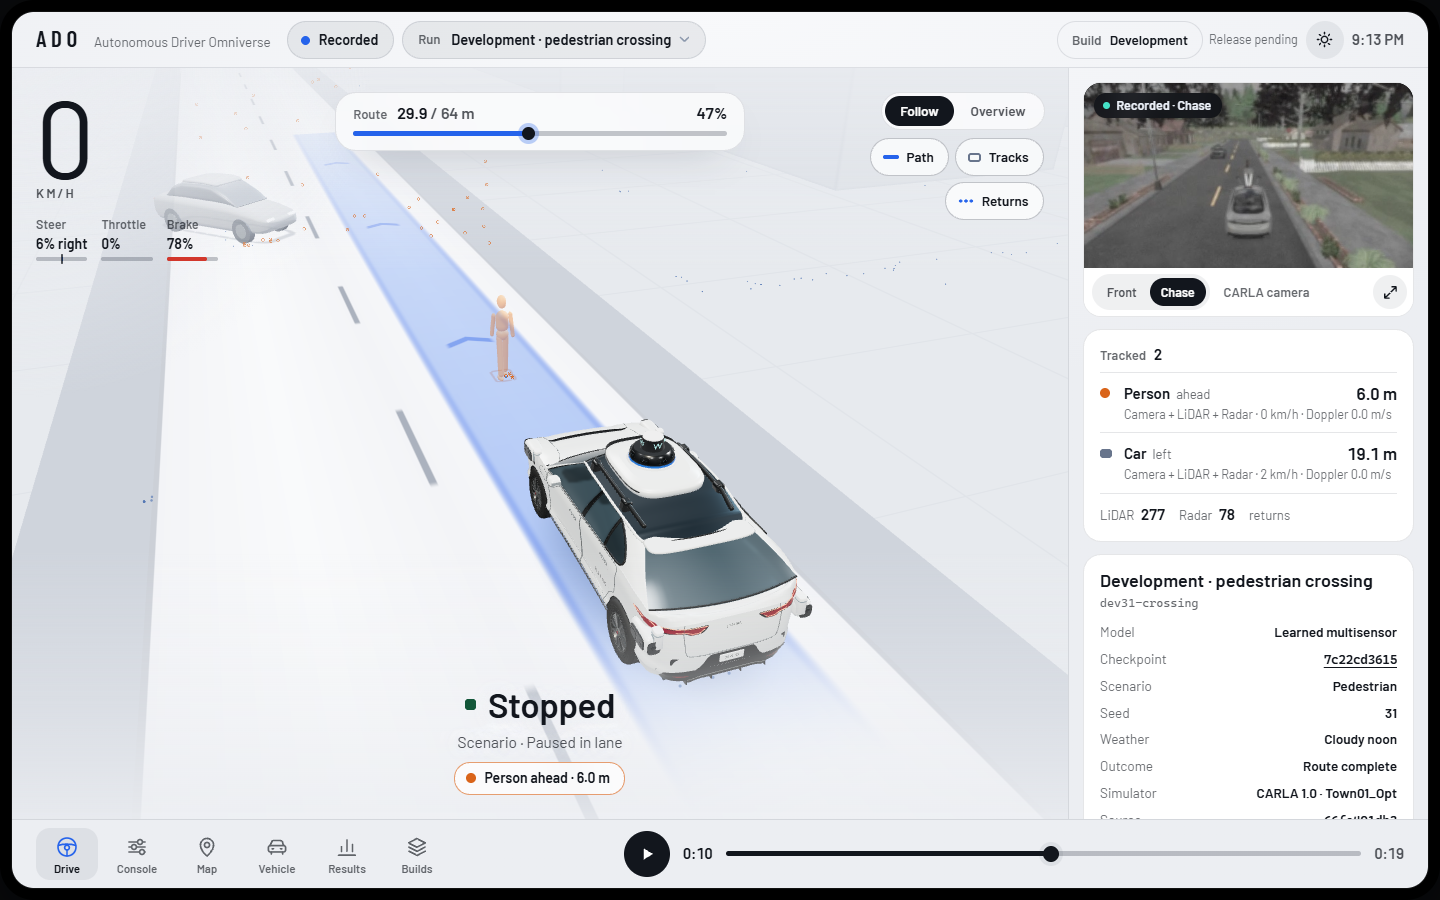
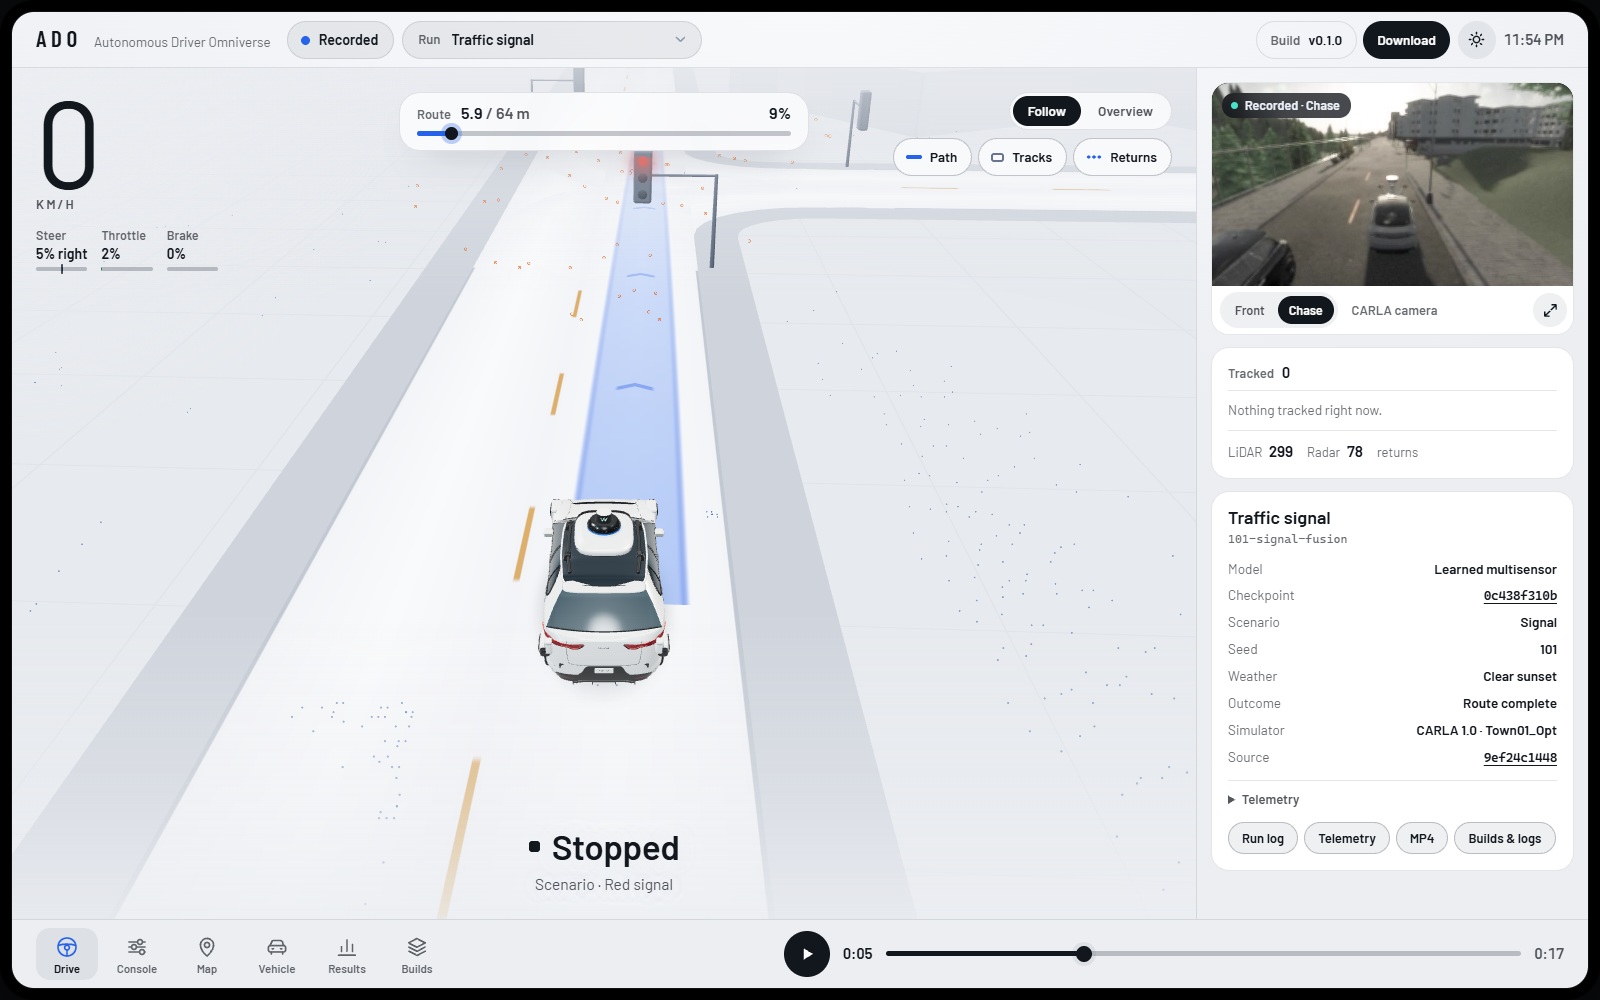
Extend the steady scene to the Town03 city drive and score it against its actors
Signals now take their direction from the road description itself and carry how far
each head reaches over its governed lanes, which Town03's far-side masts need. The
object memory ignores the vehicle's own lidar returns, drops a remembered object the
camera can see past, asks a third measurement of near-threshold detections and allows
for parking lanes. Scored on the city drive, which lists every physical actor nearby:
objects appear 18 times instead of 112, and 84% of what is drawn stands within 3 m of
a real actor against 66% of the tracker's list.

diff --git a/web/perception-scene.js b/web/perception-scene.js
@@ -371,7 +371,7 @@ function townFeatures(name) {
 // A traffic signal is drawn as a symbol, half again as large as life so its lamps read from the
 // follow camera. Its position and facing are the map's. A lamp is lit only from a recorded state.
 const LAMPS=['red','amber','green'];
-const SIGNAL={scale:1.5, post:3.3, reach:1.5};
+const SIGNAL={scale:1.5, post:3.3, tall:5.2, reach:1.5};
 function signalParts(look) {
   const lit=color=>new T.MeshBasicMaterial({color,toneMapped:false});
   const glow=color=>new T.ShaderMaterial({
@@ -386,21 +386,25 @@ function signalParts(look) {
     body:paint(look.signalBody,{roughness:.7,metalness:.2}), off:paint(look.signalOff,{roughness:.6}),
     lit:Object.fromEntries(LAMPS.map(name=>[name,lit(look[name])])),
     glow:Object.fromEntries(LAMPS.map(name=>[name,glow(look[name])])),
-    pole:new T.CylinderGeometry(.06,.08,SIGNAL.post,10), arm:new T.CylinderGeometry(.045,.045,SIGNAL.reach,8),
+    pole:new T.CylinderGeometry(.06,.08,1,10), arm:new T.CylinderGeometry(.045,.045,1,8),
     housing:new T.RoundedBoxGeometry(.3,1.2,.42,2,.07), lamp:new T.SphereGeometry(.13,16,10), halo:new T.PlaneGeometry(1,1)
   };
 }
 function buildSignal(parts, record, height) {
   const group=new T.Group();
-  // Local +X points at the traffic the signal governs, which approaches from that side.
+  // Local +X points at the traffic the signal governs, which approaches from that side, and
+  // local +Z to that traffic's left, where the lanes it governs lie.
   group.position.set(record.post[0],height,record.post[1]);
   group.rotation.y=-(record.governs_yaw+180)*rad;
-  add(group,parts.pole,parts.body,0,SIGNAL.post/2,0);
-  // An arm carries the head from the roadside post out over the lane it governs.
-  const arm=add(group,parts.arm,parts.body,0,SIGNAL.post-.05,-SIGNAL.reach/2);
-  arm.rotation.x=Math.PI/2;
+  const reach=finite(record.reach)?clamp(record.reach,-14,14):SIGNAL.reach;
+  // A long mast stands taller, so its head clears a bus.
+  const top=Math.abs(reach)>5?SIGNAL.tall:SIGNAL.post;
+  add(group,parts.pole,parts.body,0,top/2,0).scale.y=top;
+  // An arm carries the head from the roadside post out over the lanes it governs.
+  const arm=add(group,parts.arm,parts.body,0,top-.05,reach/2);
+  arm.rotation.x=Math.PI/2;arm.scale.y=Math.abs(reach);
   const head=new T.Group();
-  head.position.set(0,SIGNAL.post-.1,-SIGNAL.reach);head.scale.setScalar(SIGNAL.scale);
+  head.position.set(0,top-.1,reach);head.scale.setScalar(SIGNAL.scale);
   group.add(head);
   add(head,parts.housing,parts.body,0,0,0);
   const lamps=LAMPS.map((name,i)=>{
@@ -410,7 +414,10 @@ function buildSignal(parts, record, height) {
   });
   const halo=add(head,parts.halo,parts.glow.red,.2,0,0);
   halo.visible=false;halo.renderOrder=5;
-  return {id:record.id,x:record.post[0],z:record.post[1],yaw:record.governs_yaw,group,lamps,halo,state:null};
+  // Where the head hangs, in world coordinates: `reach` to the left of the governed traffic.
+  const yaw=record.governs_yaw*rad;
+  return {id:record.id,x:record.post[0]+reach*Math.sin(yaw),z:record.post[1]-reach*Math.cos(yaw),
+    yaw:record.governs_yaw,post:record.post,group,lamps,halo,state:null};
 }
 function showSignal(parts, signal, state) {
   if(signal.state===state)return;
@@ -620,34 +627,38 @@ export class PerceptionScene {
     this.redraw();
   }
   // Light each signal from the frame. A recording can list lamp states around the vehicle as
-  // observer_map.signals: [{x, y, state}]. Recordings made before that field say less: the signal
-  // scenario records the phase of the signal the vehicle waits at, and the trip scenario holds
-  // every signal on the route at green (crosswalk/world.py; the recorded cameras show both).
-  // A signal with no recorded state is drawn unlit.
+  // observer_map.signals: [{id, state}] or [{x, y, state}]. Recordings made before that field
+  // say less. The signal scenario, alone or as an event in a journey, records the phase of the
+  // signal the vehicle waits at, and the trip scenario holds every signal on the route at green
+  // (crosswalk/world.py and journey.py; the Town01 recordings' cameras show both). A signal with
+  // no recorded state is drawn unlit.
   lightSignals(frame,ctx) {
     if(!this.signals?.length)return;
     const states=new Map(), listed=frame.observer_map?.signals;
+    const phase=/^(?:signal: )?(red|green)(?: signal)?$/.exec(frame.phase||'');
     if(Array.isArray(listed)){
       for(const entry of listed){
-        if(!finite(entry?.x)||!finite(entry?.y))continue;
-        let nearest=null, distance=6;
-        for(const signal of this.signals){
-          const d=Math.hypot(signal.x-entry.x,signal.z-entry.y);
-          if(d<distance){distance=d;nearest=signal;}
+        let match=entry?.id==null?null:this.signals.find(signal=>String(signal.id)===String(entry.id));
+        if(!match&&finite(entry?.x)&&finite(entry?.y)){
+          let distance=6;
+          for(const signal of this.signals){
+            const d=Math.hypot(signal.post[0]-entry.x,signal.post[1]-entry.y);
+            if(d<distance){distance=d;match=signal;}
+          }
         }
-        if(nearest)states.set(nearest,lampState(entry.state));
+        if(match)states.set(match,lampState(entry.state));
       }
-    }else if(ctx.located&&(frame.scenario==='trip'||(frame.scenario==='signal'&&/^(red|green) signal$/.test(frame.phase)))){
-      // The signals ahead that govern traffic heading the vehicle's way, nearest first.
+    }else if(ctx.located&&(frame.scenario==='trip'||(phase&&(frame.scenario==='signal'||frame.scenario==='journey')))){
+      // The heads ahead that govern traffic heading the vehicle's way, nearest first.
       const c=Math.cos(ctx.degrees*rad), n=Math.sin(ctx.degrees*rad), ahead=[];
       for(const signal of this.signals){
         const dx=signal.x-ctx.x, dz=signal.z-ctx.z, fx=c*dx+n*dz, fy=-n*dx+c*dz;
         const along=Math.abs((((signal.yaw-ctx.degrees)%360)+540)%360-180)<35;
-        if(along&&fx>2&&fx<70&&Math.abs(fy)<8)ahead.push([fx,signal]);
+        if(along&&fx>2&&fx<70&&Math.abs(fy)<7)ahead.push([fx,signal]);
       }
       ahead.sort((a,b)=>a[0]-b[0]);
       if(frame.scenario==='trip')for(const [,signal] of ahead)states.set(signal,'green');
-      else if(ahead.length)states.set(ahead[0][1],frame.phase.startsWith('red')?'red':'green');
+      else if(ahead.length)states.set(ahead[0][1],phase[1]);
     }
     const cos=Math.cos(ctx.degrees*rad), sin=Math.sin(ctx.degrees*rad), follow=this.view==='follow';
     for(const signal of this.signals){

diff --git a/tests/test_map_features.py b/tests/test_map_features.py
@@ -1,4 +1,4 @@
-"""The committed town features are what the road description says, and fit the town export."""
+"""The committed town features are what each road description says, and fit the town exports."""
 import json
 import os
 from pathlib import Path
@@ -10,44 +10,69 @@ except ImportError:     # the simulator client is not installed
     map_features = None
 
 ROOT = Path(__file__).resolve().parents[1]
-TOWN01_MAP = Path(os.environ.get("CARLA_TOWN01_XODR", ".local/Town01_Opt-1.0.xodr"))
-COMMITTED = ROOT / "web/media/map-features/Town01_Opt.json"
+FEATURES = ROOT / "web/media/map-features"
+# Each town's road description, and a town export recorded in it.
+TOWNS = {
+    "Town01_Opt": (Path(os.environ.get("CARLA_TOWN01_XODR", ".local/Town01_Opt-1.0.xodr")), ROOT / "web/media/town.json"),
+    "Town03_Opt": (Path(os.environ.get("CARLA_TOWN03_XODR", ".local/Town03_Opt-1.0.xodr")),
+                   ROOT / "web/media/long-city-drive/town.json"),
+}
 
 
-@unittest.skipUnless(map_features and TOWN01_MAP.is_file(), "needs the CARLA client and the Town01 road description")
+def described(town):
+    xodr, export = TOWNS[town]
+    if map_features is None or not xodr.is_file():
+        raise unittest.SkipTest(f"needs the CARLA client and the {town} road description")
+    return map_features.features(town, xodr.read_text(encoding="utf-8")), json.loads(export.read_text(encoding="utf-8"))
+
+
 class MapFeatureTests(unittest.TestCase):
-    @classmethod
-    def setUpClass(cls):
-        cls.features = map_features.features("Town01_Opt", TOWN01_MAP.read_text(encoding="utf-8"))
-
-    def test_committed_file_is_what_the_road_description_gives(self):
-        self.assertEqual(json.loads(COMMITTED.read_text(encoding="utf-8")), json.loads(json.dumps(self.features)))
+    def test_committed_files_are_what_the_road_descriptions_give(self):
+        for town in TOWNS:
+            with self.subTest(town):
+                features, _ = described(town)
+                committed = json.loads((FEATURES / f"{town}.json").read_text(encoding="utf-8"))
+                self.assertEqual(committed, json.loads(json.dumps(features)))
 
     def test_every_exported_lane_is_described(self):
-        town = json.loads((ROOT / "web/media/town.json").read_text(encoding="utf-8"))
-        described = {(tuple(lane["a"]), tuple(lane["b"])) for lane in self.features["lanes"]}
-        missing = [lane for lane in town["roads"] if (tuple(lane[0][:2]), tuple(lane[-1][:2])) not in described]
-        self.assertEqual(missing, [])
-        self.assertEqual(len(town["roads"]), len(self.features["lanes"]))
+        for town in TOWNS:
+            with self.subTest(town):
+                features, export = described(town)
+                self.assertEqual(export["producer"]["map"], town)
+                lanes = {(tuple(lane["a"]), tuple(lane["b"])) for lane in features["lanes"]}
+                missing = [lane for lane in export["roads"] if (tuple(lane[0][:2]), tuple(lane[-1][:2])) not in lanes]
+                self.assertEqual(missing, [])
+                self.assertEqual(len(export["roads"]), len(features["lanes"]))
 
     def test_lane_direction_and_centre_line(self):
-        # The first road runs along y = 0. Traffic keeps to the right of the yellow centre line,
-        # and CARLA's y axis points to the right of its x axis.
-        west, east = self.features["lanes"][:2]
+        # Town01's first road runs along y = 0. Traffic keeps to the right of the yellow centre
+        # line, and CARLA's y axis points to the right of its x axis.
+        features, _ = described("Town01_Opt")
+        west, east = features["lanes"][:2]
         self.assertTrue(west["forward"] and west["a"][0] > west["b"][0] and west["a"][1] < 0)
         self.assertTrue(not east["forward"] and east["a"][1] > 0)
         yellow = {"line": "broken", "color": "yellow"}
         self.assertEqual((west["minus"], west["plus"]), (yellow, None))
         self.assertEqual((east["plus"], east["minus"]), (yellow, None))
 
-    def test_signals_stand_beside_the_traffic_they_govern(self):
-        signals = self.features["signals"]
+    def test_signals_face_the_traffic_they_govern(self):
+        features, _ = described("Town01_Opt")
+        signals = {signal["id"]: signal for signal in features["signals"]}
         self.assertEqual(len(signals), 36)
-        self.assertEqual(len({signal["id"] for signal in signals}), 36)
-        by_id = {signal["id"]: signal for signal in signals}
-        # Westbound traffic on the first road meets signal 362 on its own side of the road.
-        self.assertEqual(abs(by_id[362]["governs_yaw"]), 180.)
-        self.assertLess(by_id[362]["post"][1], -2.)
+        # Westbound traffic on the first road meets signal 362 on its own side of the road,
+        # with the governed lane's centre a little under 3 m to the left of the post.
+        self.assertEqual(abs(signals[362]["governs_yaw"]), 180.)
+        self.assertLess(signals[362]["post"][1], -2.)
+        self.assertTrue(all(2. < signal["reach"] < 3.2 for signal in signals.values()))
+
+        # Town03's posts stand across wide junctions from the lanes they govern. Signal 2024
+        # governs eastbound traffic from a mast that reaches 11 m over the road.
+        features, _ = described("Town03_Opt")
+        signals = {signal["id"]: signal for signal in features["signals"]}
+        self.assertEqual(len(signals), 38)
+        self.assertEqual(signals[2024]["governs_yaw"], 0.)
+        self.assertAlmostEqual(signals[2024]["reach"], 11.2, delta=.3)
+        self.assertTrue(all(signal["reach"] > 4. for signal in signals.values()))
 
 
 if __name__ == "__main__":

diff --git a/crosswalk/map_features.py b/crosswalk/map_features.py
@@ -2,8 +2,8 @@
 
 The town geometry exported by ``city_map`` holds lane centre lines and building bounds.
 This adds what the road description itself records about those lanes: which way each one
-is driven, how its two edges are painted, and where each traffic signal stands and which
-way the traffic it governs is heading. Lanes are keyed by their end points, so the file matches a town export
+is driven, how its two edges are painted, where each traffic signal's post stands, which
+way the traffic it governs is heading and how far the governed lanes are from the post. Lanes are keyed by their end points, so the file matches a town export
 however that export orders its lanes.
 """
 from collections import defaultdict
@@ -11,6 +11,7 @@ from pathlib import Path
 import argparse
 import hashlib
 import json
+import math
 
 import carla
 
@@ -53,19 +54,30 @@ def _lanes(road_map):
 
 
 def _signals(road_map):
-    signals = {}
+    """One entry per signal post. The road description lists a post once for every junction lane it governs."""
+    posts = defaultdict(list)
     for landmark in road_map.get_all_landmarks_of_type(SIGNAL):
-        if landmark.id in signals:
-            continue    # one entry per junction movement it governs; the post itself is the same
-        post = landmark.transform
-        lane = road_map.get_waypoint(post.location, project_to_road=True, lane_type=carla.LaneType.Driving)
-        # A post stands beside the lane it governs. That lane's direction is the direction of
-        # the traffic that obeys it, and its lamps face the other way.
-        beside = lane is not None and lane.transform.location.distance(post.location) < 8.
-        yaw = lane.transform.rotation.yaw if beside else post.rotation.yaw
-        signals[landmark.id] = {"id": int(landmark.id), "post": _xy(post.location),
-                                "governs_yaw": round((yaw + 180.) % 360. - 180., 1)}
-    return [signals[key] for key in sorted(signals, key=int)]
+        posts[int(landmark.id)].append(landmark)
+    signals = []
+    for key in sorted(posts):
+        post = posts[key][0].transform
+        # The landmark points the way the traffic it governs is heading. Its lamps face the other way.
+        yaw = math.radians(post.rotation.yaw)
+        entry = {"id": key, "post": _xy(post.location), "governs_yaw": round((post.rotation.yaw + 180.) % 360. - 180., 1)}
+        offsets = []
+        for landmark in posts[key]:
+            for first, last in landmark.get_lane_validities():
+                for lane_id in range(min(first, last), max(first, last) + 1):
+                    governed = road_map.get_waypoint_xodr(landmark.road_id, lane_id, landmark.s) if lane_id else None
+                    if governed is not None:
+                        delta = governed.transform.location - post.location
+                        # Metres from the post to that lane's centre, positive to the left of its traffic.
+                        offsets.append(delta.x * math.sin(yaw) - delta.y * math.cos(yaw))
+        if offsets:
+            # A head hangs over the governed lanes: out as far as the middle of them.
+            entry["reach"] = round((min(offsets) + max(offsets)) / 2, 2)
+        signals.append(entry)
+    return signals
 
 
 def features(name, xodr):

diff --git a/docs/interface.md b/docs/interface.md
@@ -12,18 +12,18 @@ Cars, trucks, buses, riders and pedestrians are drawn as symbols for their class
 
 The tracker's list is not drawn as reported. Its detector runs on the front camera every other frame, a track ends half a second after its last measurement, and a re-detected object returns under a new number, sometimes as another class: in one recording a parked van appears as 25 separate tracks named car, bus and bicycle. Drawn directly, objects flicker at the detector's rate, vanish beside the vehicle and reappear. `web/object-memory.mjs` keeps one drawn object per physical object instead, using only what the recording holds:
 
-- **Confirm.** An object is drawn once it has been measured twice with fair confidence, three times with less, or once at close range with high confidence. Single detections never appear, and neither did the bollards the detector twice called pedestrians.
+- **Confirm.** An object is drawn once it has been measured twice, three times if the detector's score stayed near its threshold, or once at close range with a high score. Single detections never appear, and neither do the bollards the detector twice called pedestrians.
 - **Stitch.** A measurement beside a remembered object of the same family (pedestrian, or anything on wheels) continues that object, whatever number or class the tracker gave it. The class that has gathered the most confidence names it, and a box of another class does not move or resize it.
-- **Hold.** A stopped object stays where it was last measured, drawn fainter as remembered. In clear view of the camera it lasts two seconds without a detection box of its family over it, or up to ten while lidar returns keep landing on its footprint. Beside the vehicle, outside the camera's view, a vehicle lasts until those returns stop for three seconds and a pedestrian for three seconds. It also goes once the vehicle has passed it or drives through the spot.
+- **Hold.** A stopped object stays where it was last measured, drawn fainter as remembered. In clear view of the camera it lasts two seconds without a detection box of its family over it, or up to ten while lidar returns keep landing on its footprint. A vehicle close by with neither a box nor returns goes after one second, and so does any object the camera can see past: a much smaller box of its family where it would stand is something farther off. Beside the vehicle, outside the camera's view, a vehicle lasts until those returns stop and a pedestrian for three seconds. It also goes once the vehicle has passed it or drives through the spot. Returns from the vehicle's own body count for nothing.
 - **Carry.** A travelling object continues along its course for a second after its last measurement, longer while lidar returns keep pace with it, then fades. If returns show it stopped short, it settles there.
-- **Leave out.** A vehicle-class detection more than 3.6 m from every mapped lane centre is not drawn. In the recordings these were a kiosk, a shed and street furniture.
+- **Leave out.** A vehicle-class detection more than 4.5 m from every mapped driving-lane centre is not drawn. In the recordings these were planters, a kiosk, a shed and street furniture. A vehicle parked that far off the road is left out with them.
 
-Objects fade in and out over a few tenths of a second. The Tracked list beside the scene is still the tracker's own list, so it can name an object the scene leaves out and miss one the scene is holding. The memory gives the same picture for a frame however playback reached it, except that jumping straight to a moment never played shows only what is tracked there. It has no access to the simulator's actors; where a recording also stores the scripted actors' true positions, they were used only to score it.
+Objects fade in and out over a few tenths of a second. The Tracked list beside the scene is still the tracker's own list, so it can name an object the scene leaves out and miss one the scene is holding. The memory gives the same picture for a frame however playback reached it, except that jumping straight to a moment never played shows what the tracker holds there and builds up from that. It has no access to the simulator's actors. The city drive's recording also lists every physical actor near the vehicle, which scores the result: the tracker's list has an object appear 112 times in that drive and the scene 18 times, and 84% of what the scene draws stands within 3 m of a real actor against 66% of the tracker's list (96% of objects measured in the current frames, 63% of remembered ones). The remembered misses are mostly a van or bus whose centre the tracker placed several metres off, and a car that pulled away while the detector missed it, which stays drawn for about two seconds.
 
-Traffic signals, lane directions and lane paint come from the town's OpenDRIVE road description, read without a simulator by `crosswalk/map_features.py` into `web/media/map-features/<town>.json`. The file reproduces the exported lane centres of Town01 to within a centimetre. It gives each signal's post and the direction of the traffic it governs, which way each lane is driven, so a vehicle first seen in a lane faces the right way, and how each lane edge is painted: in Town01 a broken yellow centre line and unpainted kerbs. The road description lists no crosswalks for this town, so none are drawn. A town without a features file falls back to a schematic with a dashed divider between neighbouring lanes. Signals are symbols, drawn half again as large as life.
+Traffic signals, lane directions and lane paint come from each town's OpenDRIVE road description, read without a simulator by `crosswalk/map_features.py` into `web/media/map-features/<town>.json`. The files reproduce the exported lane centres of Town01 and Town03 to within a centimetre. They give each signal's post, the direction of the traffic it governs and how far its head reaches over the governed lanes; which way each lane is driven, so a vehicle first seen in a lane faces the right way; and how each lane edge is painted, such as Town01's broken yellow centre line and unpainted kerbs. Neither road description lists crosswalks, so none are drawn. A town without a features file falls back to a schematic with a dashed divider between neighbouring lanes. Signals are symbols, drawn half again as large as life.
 
-A signal lamp is lit only from a recorded state. A recording can list the lamp states around the vehicle as `observer_map.signals`, an array of `{x, y, state}` in world coordinates, and the display lights the signal nearest each entry. No published recording carries that field yet. For those, the signal scenario records the phase of the one signal the vehicle waits at, and the trip scenario holds every signal on the route at green; the recorded cameras confirm both. Every other signal is drawn unlit, which means its state was not recorded.
+A signal lamp is lit only from a recorded state. A recording can list the lamp states around the vehicle as `observer_map.signals`, an array of `{id, state}` with the signal's OpenDRIVE id, or `{x, y, state}` in world coordinates. No published recording carries that field yet. Until one does, the display uses what each recording does hold: the signal scenario, alone or as an event within the city drive, records the phase of the one signal the vehicle waits at, and the trip scenario holds every signal on the route at green. The Town01 recordings' cameras confirm both; the city drive's footage is too coarse to show its lamps, so there the phase is the only record. Every other signal is drawn unlit, which means its state was not recorded.
 
-![The day display mode showing the same recorded crossing with a light scene, clay-grey road users and a blue path](media/ado-display-day.png)
+![The day display mode showing the vehicle stopped at a red signal, with a light scene, a yellow centre line and a blue path](media/ado-display-day.png)
 
 The public site reads recorded evidence. A local session reads the live simulator. The camera inset, graph and controls share the original recorded frame numbers and simulation times. The Builds & Logs page identifies the source revision and checkpoint and exposes the control trace behind each published drive. The driving benchmark, development recordings and higher-quality showcase runs have separate labels.
